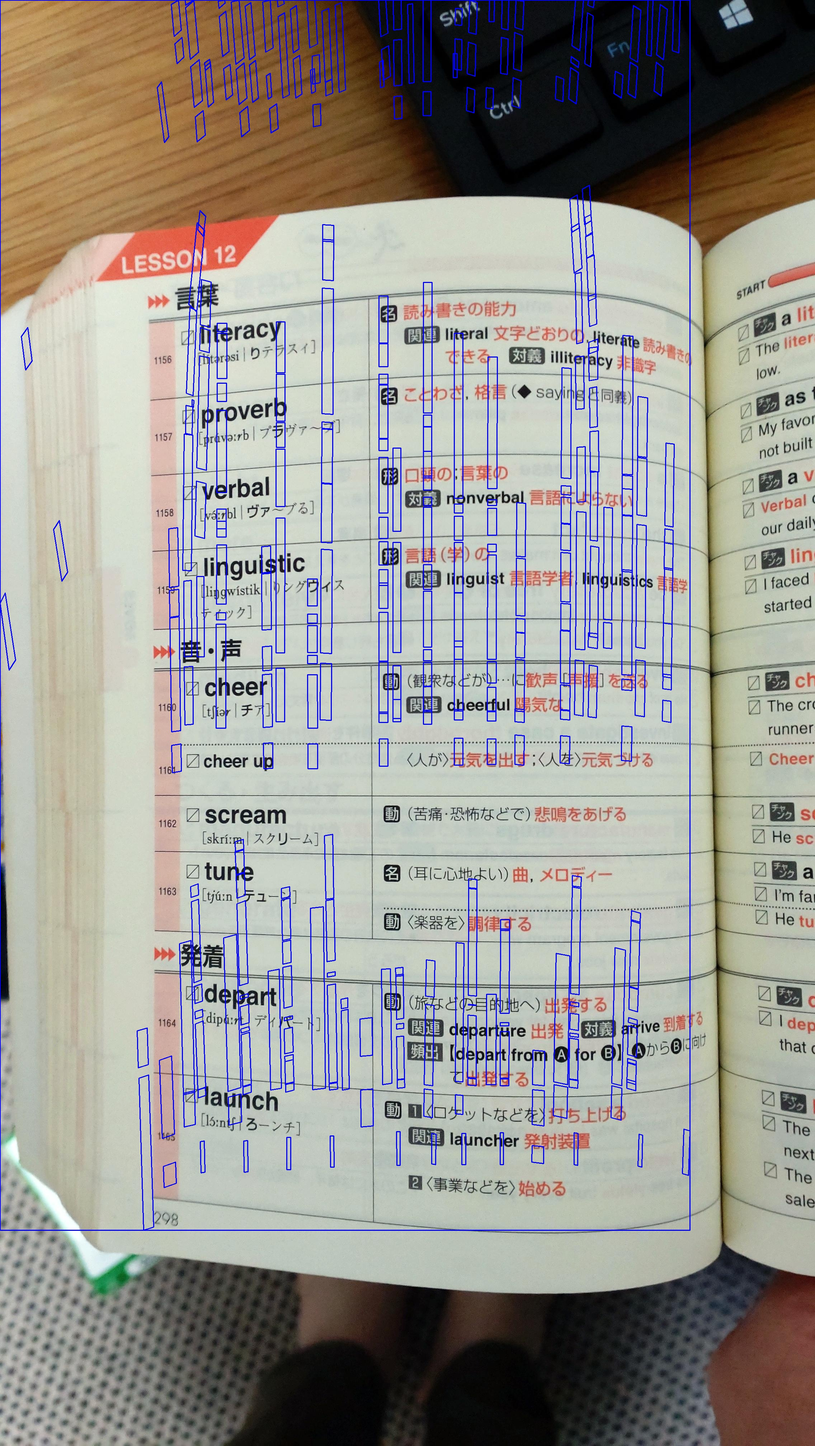
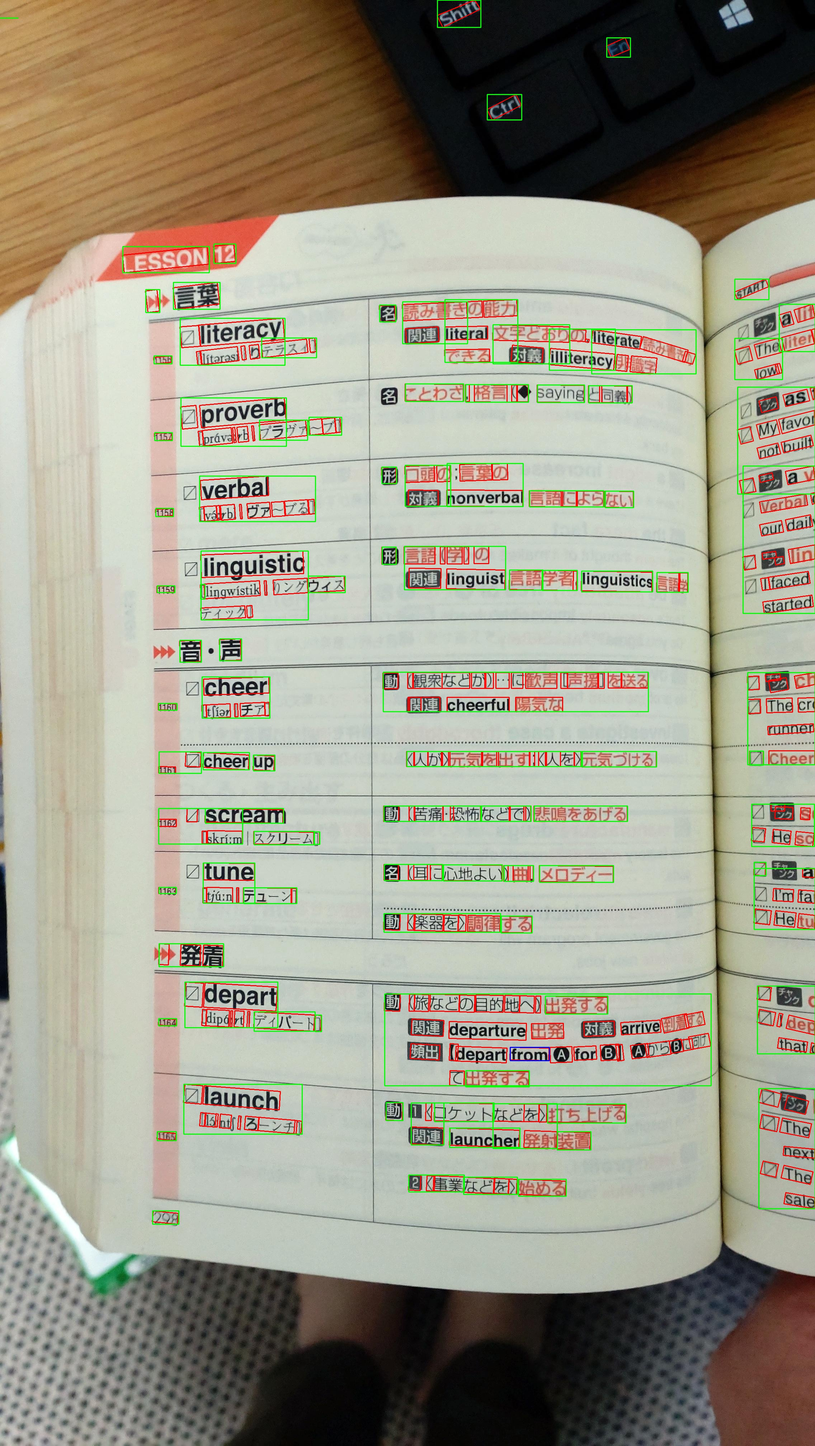
クラスターの合成途中

diff --git a/OCR/ocr.py b/OCR/ocr.py
@@ -206,7 +206,7 @@ def main():
     image, coords_list = rotate_image_and_coords(image, coords_list, exif_data) # 画像と座標を回転
     clustered_boxes = cluster_bounding_boxes(coords_list, width=80, height=30, threshold=30)
     draw_bounding_box(clustered_boxes, image, (255, 0, 0)) # 青色で描画
-    culstered_boxex = cluster_bounding_boxes(culstered_boxex, width=80, height=30, threshold=30)
+    clustered_boxes = cluster_bounding_boxes(clustered_boxes, width=80, height=30, threshold=30)
     draw_bounding_box(clustered_boxes, image, (0, 255, 0)) # 緑色で描画
     # 50ピクセルの長さの緑色の線を引く
     cv2.line(image, (0, 50), (50, 50), (0, 255, 0), 2)
